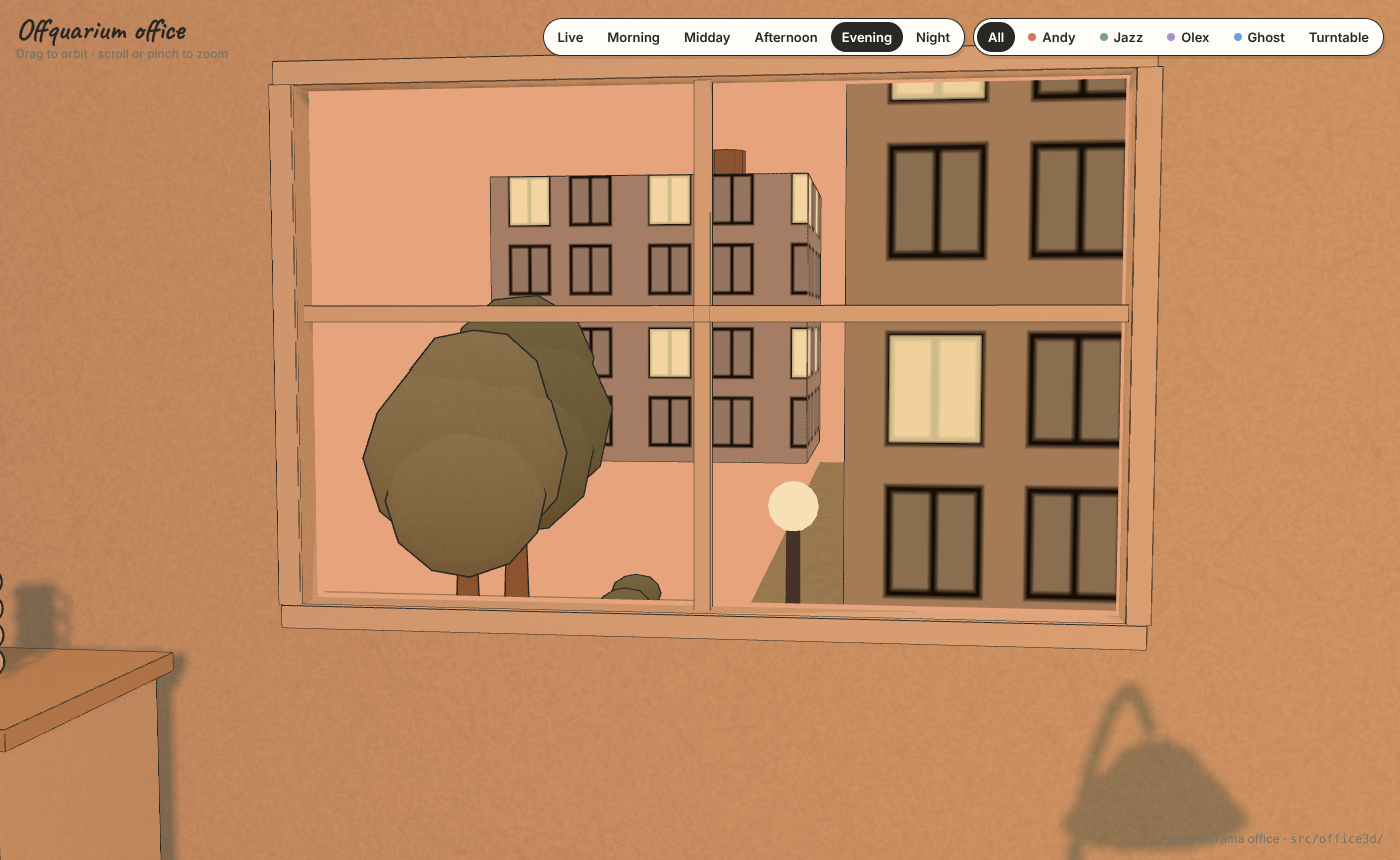
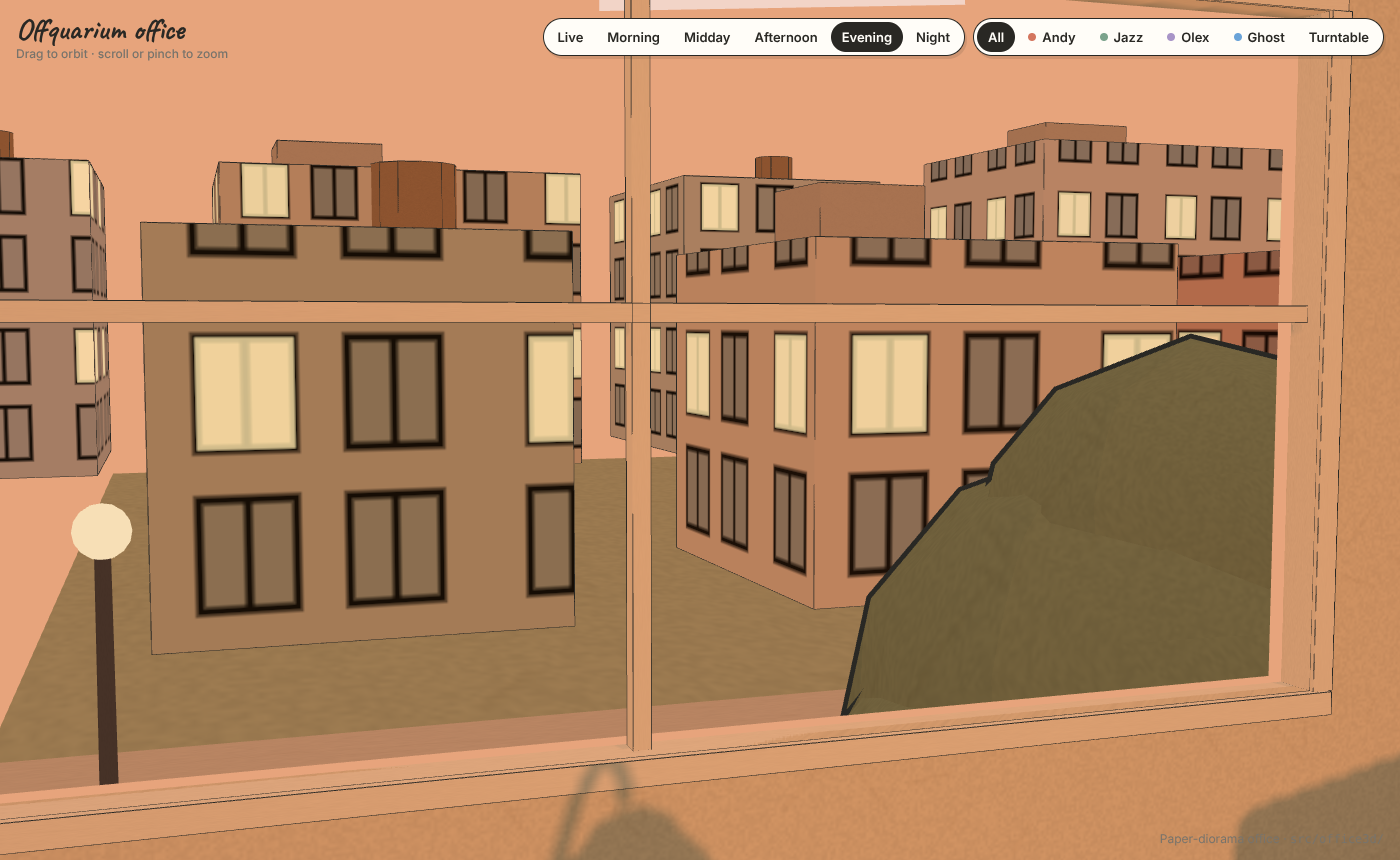
feat: bigger office windows
Back windows widen to 2.4 m and the right window to 3 m (moved clear of
the coffee counter); sills drop to 0.85 m and heads rise to 2.3 m. The
printer shifts off the middle window. Buildings opposite the office are
two-storey shops with taller blocks further along, so the bigger windows
show sky over the roofs.

Claude-Session: https://claude.ai/code/session_011ShH4q3PKJAyLeZ1LQccyK

diff --git a/src/office3d/exterior.js b/src/office3d/exterior.js
@@ -241,7 +241,7 @@ function side(root, { rotationY, wall, from, to, windows = [] }, out) {
   for (let x = from + 0.8; x < to; x += 1.5 + rnd()) bush(g, x, -wall - 0.9 - rnd() * 0.4, 0.45 + rnd() * 0.25);
   // Trees between the windows, so each window frames the street.
   for (let x = from + 2; x < to; x += 3.5 + rnd() * 3) {
-    if (windows.some(wx => Math.abs(x - wx) < 1.9)) continue;
+    if (windows.some(wx => Math.abs(x - wx) < 2.2)) continue;
     tree(g, x, -wall - 3.5 - rnd() * 2.5, 5.2 + rnd() * 1.8, Math.floor(rnd() * 100));
   }
   for (let x = from + 2; x < to; x += 9) streetLamp(g, x, -wall - 9.6, out.bulbs);
@@ -252,7 +252,11 @@ function side(root, { rotationY, wall, from, to, windows = [] }, out) {
     const w = 6 + rnd() * 6;
     // Mostly 2-3 storeys so sky shows over the roofs; the odd taller block.
     let h = rnd() < 0.72 ? 6.4 + rnd() * 2.8 : 11 + rnd() * 4;
-    if (windows.some(wx => Math.abs(x + w / 2 - wx) < 5)) h = Math.min(h, 7.5); // keep sky in every window
+    // Anything the windows can see stays low, so every window keeps its sky;
+    // taller blocks stand only further along the street.
+    const off = Math.abs(x + w / 2);
+    if (off < 11) h = Math.min(h, 5.4);       // two-storey shops straight across
+    else if (off < 18) h = Math.min(h, 7.6);
     building(g, x + w / 2, -wall - 27 - rnd() * 3, w, 9, h, k, out.glow);
     x += w + 2.5 + rnd() * 4;
   }
@@ -271,7 +275,7 @@ export function buildExterior({ W, D, T }) {
   const out = { glow: [], bulbs: [], clouds: [] };
   // Window positions must match buildRoom() in room.js.
   side(group, { rotationY: 0, wall: D / 2 + T, from: -34, to: 34, windows: [-3.8, 0, 3.9] }, out);   // behind the back wall
-  side(group, { rotationY: -Math.PI / 2, wall: W / 2 + T, from: -3, to: 34, windows: [-0.6] }, out); // beyond the right wall
+  side(group, { rotationY: -Math.PI / 2, wall: W / 2 + T, from: -3, to: 34, windows: [0.4] }, out);  // beyond the right wall
   group.position.y = -STOREY;
   group.traverse(o => { o.renderOrder = ORDER; });
 

diff --git a/src/office3d/room.js b/src/office3d/room.js
@@ -252,12 +252,13 @@ export function buildRoom() {
   buildMats(group);
 
   const skyMat = portalWriter(new THREE.MeshBasicMaterial({ color: 0xbcd8ee, fog: false }));
-  const win = (x, w = 1.6) => ({ x, w, y0: 1.0, y1: 2.15 });
+  // Big windows: sill just above desk height, head close to the ceiling line.
+  const win = (x, w = 2.4) => ({ x, w, y0: 0.85, y1: 2.3 });
   const walls = [
     buildWall({ name: 'back', length: W + 2 * T, position: new THREE.Vector3(0, 0, -D / 2 - T / 2), rotationY: 0, windows: [win(-3.8), win(0), win(3.9)] }, skyMat),
     buildWall({ name: 'front', length: W + 2 * T, position: new THREE.Vector3(0, 0, D / 2 + T / 2), rotationY: Math.PI, doors: [{ x: 2.0, w: 1.0, h: 2.1 }] }, skyMat),
     buildWall({ name: 'left', length: D, position: new THREE.Vector3(-W / 2 - T / 2, 0, 0), rotationY: Math.PI / 2 }, skyMat),
-    buildWall({ name: 'right', length: D, position: new THREE.Vector3(W / 2 + T / 2, 0, 0), rotationY: -Math.PI / 2, windows: [win(-0.6, 1.8)] }, skyMat),
+    buildWall({ name: 'right', length: D, position: new THREE.Vector3(W / 2 + T / 2, 0, 0), rotationY: -Math.PI / 2, windows: [win(0.4, 3.0)] }, skyMat),
   ];
   for (const w of walls) group.add(w.group);
 

diff --git a/src/office3d/office.js b/src/office3d/office.js
@@ -40,7 +40,7 @@ const LAYOUT = [
   ['desk_cluster', -3.9, -3.05, 0],
   ['office_chair', -5.2, -2.1, Math.PI - 0.5],
   ['filing_cabinet', -2.3, -3.6, 0],
-  ['printer', -1.5, -3.55, 0],
+  ['printer', -1.65, -3.55, 0],
   ['plant_snake', -5.55, -3.55, 0],
   // Coffee nook (back right): counter on the right wall, cafe table in front.
   ['coffee_station', 5.6, -2.55, -Math.PI / 2],
@@ -143,7 +143,7 @@ for (const [type, x, z, rot] of LAYOUT) {
 }
 // Window-gazing spots and the doorway.
 spots.push({ x: 0, z: -3.3, heading: Math.PI, type: 'window' });
-spots.push({ x: 5.2, z: -0.6, heading: -Math.PI / 2, type: 'window' });
+spots.push({ x: 5.2, z: 0.4, heading: -Math.PI / 2, type: 'window' });
 spots.push({ x: -2.0, z: 3.3, heading: 0, type: 'door' });
 const usableSpots = spots.filter(s => nav.freeAt(s.x, s.z));
 
